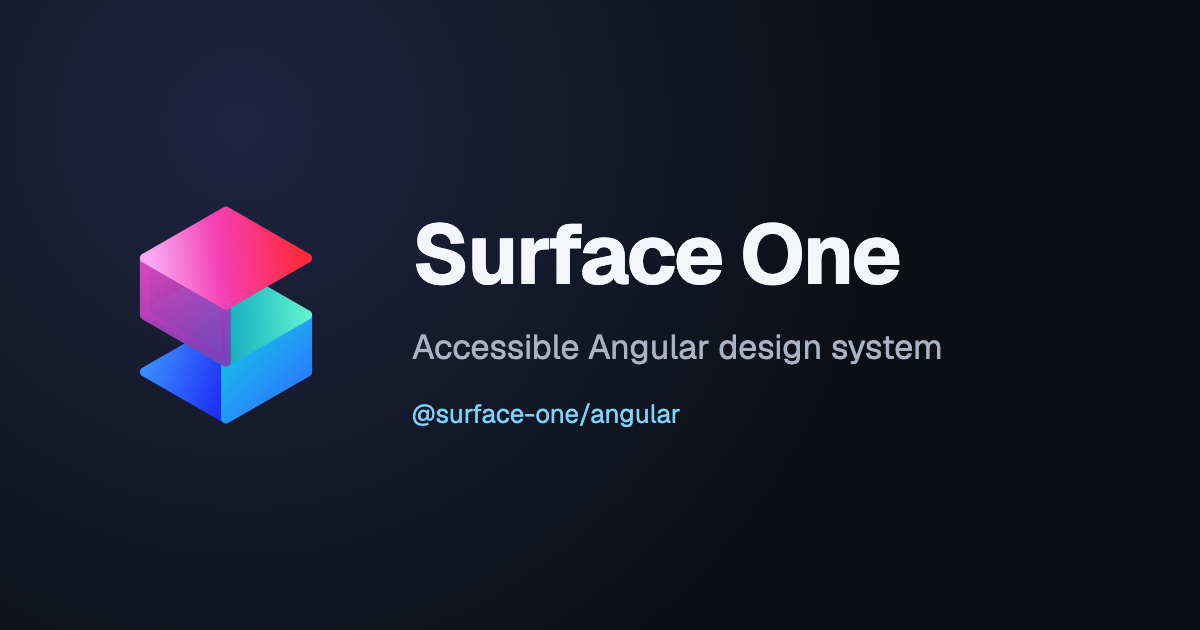
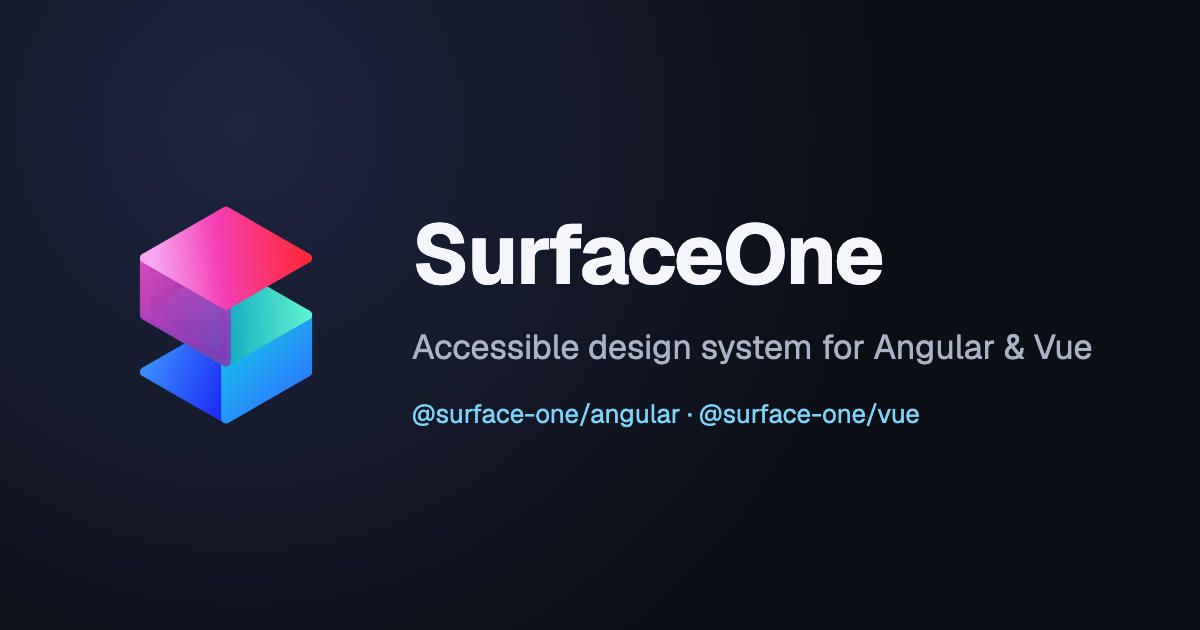
feat(docs): refresh seo copy and the og image for angular and vue
- meta description and tagline cover angular and vue / nuxt in all nine languages
- home json-ld lists the angular, vue and tokens packages
- the og image and web manifest describe the design system for angular and vue
- framework dots use each framework's brand colour; hero chips sit above the preview on mobile

Changed region(s): [[0.4933, 0.5127, 0.925, 0.6032], [0.5858, 0.3317, 0.7708, 0.4524], [0.5858, 0.6333, 0.7708, 0.6937]]

diff --git a/apps/docs/src/app/pages/home/home.page.html b/apps/docs/src/app/pages/home/home.page.html
@@ -91,6 +91,11 @@
       role="img"
       [attr.aria-label]="i18n.m().home.previewLabel"
     >
+      <div class="stage-chips" inert>
+        <span soneBadge variant="success" dot>Synced</span>
+        <span soneBadge variant="accent" dot>3 skins</span>
+        <span soneBadge variant="outline">WCAG 2.2 AA</span>
+      </div>
       <div soneCard class="stage-card stage-main" inert>
         <div soneCardHeader>
           <h2 soneCardTitle>This week</h2>
@@ -125,23 +130,17 @@
           <sone-level-meter [level]="0.6" [bars]="18" />
         </div>
       </div>
-
-      <div class="stage-chips" inert>
-        <span soneBadge variant="success" dot>Synced</span>
-        <span soneBadge variant="accent" dot>3 skins</span>
-        <span soneBadge variant="outline">WCAG 2.2 AA</span>
-      </div>
     </div>
   </div>
 
   <div class="works-with">
     <span class="works-label">{{ i18n.m().home.frameworks.worksWith }}</span>
     <ul>
-      <li><span soneSwatch tone="chart-1"></span>Angular</li>
-      <li><span soneSwatch tone="chart-2"></span>Vue</li>
-      <li><span soneSwatch tone="chart-3"></span>Nuxt</li>
+      <li><span soneSwatch tone="--fw-angular"></span>Angular</li>
+      <li><span soneSwatch tone="--fw-vue"></span>Vue</li>
+      <li><span soneSwatch tone="--fw-nuxt"></span>Nuxt</li>
       <li class="is-soon">
-        <span soneSwatch tone="chart-6"></span>React
+        <span soneSwatch tone="--fw-react"></span>React
         <span soneBadge variant="outline">{{
           i18n.m().home.frameworks.soon
         }}</span>

diff --git a/apps/docs/src/app/i18n/messages/ja.ts b/apps/docs/src/app/i18n/messages/ja.ts
@@ -3,9 +3,9 @@ import type { Messages } from "./en";
 export const ja: Messages = {
   meta: {
     siteName: "SurfaceOne",
-    tagline: "落ち着いたローカルファーストなアプリのためのデザインシステム",
+    tagline: "Angular と Vue のための、落ち着いたアクセシブルなコンポーネント",
     description:
-      "SurfaceOne はアクセシブルな Angular デザインシステムです。50 のコンポーネントファミリー、デザイントークン、ライトとダークに対応した 3 つのスキン、そして latin-ext を完全にカバーするフォントを備えています。",
+      "SurfaceOne は Angular と Vue / Nuxt のためのアクセシブルなデザインシステムです。70 以上のコンポーネントファミリー、フレームワークに依存しないデザイントークン、ライトとダークに対応した 3 つのスキン、そして latin-ext を完全にカバーするフォントを備えています。",
   },
   a11y: {
     skipToContent: "本文へスキップ",

diff --git a/apps/docs/src/app/pages/home/home.page.ts b/apps/docs/src/app/pages/home/home.page.ts
@@ -155,12 +155,26 @@ export default class HomePage {
         jsonLd: [
           {
             "@type": "SoftwareSourceCode",
-            name: "@surface-one/angular",
+            name: SITE.name,
             description: m.meta.description,
             codeRepository: SITE.repository,
-            programmingLanguage: "TypeScript",
+            programmingLanguage: ["TypeScript", "CSS"],
             runtimePlatform: ["Angular", "Vue", "Nuxt"],
+            keywords: [
+              "design system",
+              "component library",
+              "Angular",
+              "Vue",
+              "Nuxt",
+              "design tokens",
+              "accessibility",
+            ],
             version: SITE.version,
+            hasPart: [
+              "@surface-one/angular",
+              "@surface-one/vue",
+              "@surface-one/tokens",
+            ].map((name) => ({ "@type": "SoftwareSourceCode", name })),
           },
         ],
       });

diff --git a/apps/docs/src/app/i18n/messages/fr.ts b/apps/docs/src/app/i18n/messages/fr.ts
@@ -3,9 +3,9 @@ import type { Messages } from "./en";
 export const fr: Messages = {
   meta: {
     siteName: "SurfaceOne",
-    tagline: "Le design system des applications sereines et local-first",
+    tagline: "Des composants sobres et accessibles pour Angular et Vue",
     description:
-      "SurfaceOne est un design system Angular accessible : 50 familles de composants, des design tokens, trois habillages en clair et en sombre, et des polices couvrant entièrement le latin-ext.",
+      "SurfaceOne est un design system accessible pour Angular et Vue / Nuxt : plus de 70 familles de composants, des design tokens indépendants du framework, trois habillages en clair et en sombre, et des polices couvrant entièrement le latin-ext.",
   },
   a11y: {
     skipToContent: "Aller au contenu",

diff --git a/apps/docs/src/app/i18n/messages/es.ts b/apps/docs/src/app/i18n/messages/es.ts
@@ -3,9 +3,9 @@ import type { Messages } from "./en";
 export const es: Messages = {
   meta: {
     siteName: "SurfaceOne",
-    tagline: "El sistema de diseño para apps serenas y local-first",
+    tagline: "Componentes tranquilos y accesibles para Angular y Vue",
     description:
-      "SurfaceOne es un sistema de diseño accesible para Angular: 50 familias de componentes, tokens de diseño, tres skins en modo claro y oscuro, y fuentes con cobertura latin-ext completa.",
+      "SurfaceOne es un sistema de diseño accesible para Angular y Vue / Nuxt: más de 70 familias de componentes, tokens de diseño independientes del framework, tres skins en modo claro y oscuro, y fuentes con cobertura latin-ext completa.",
   },
   a11y: {
     skipToContent: "Saltar al contenido",

diff --git a/apps/docs/src/app/i18n/messages/pt.ts b/apps/docs/src/app/i18n/messages/pt.ts
@@ -3,9 +3,9 @@ import type { Messages } from "./en";
 export const pt: Messages = {
   meta: {
     siteName: "SurfaceOne",
-    tagline: "O design system para apps tranquilos e local-first",
+    tagline: "Componentes calmos e acessíveis para Angular e Vue",
     description:
-      "SurfaceOne é um design system acessível para Angular: 50 famílias de componentes, design tokens, três skins nos modos claro e escuro, e fontes com cobertura completa de latin-ext.",
+      "SurfaceOne é um design system acessível para Angular e Vue / Nuxt: mais de 70 famílias de componentes, design tokens independentes de framework, três skins nos modos claro e escuro, e fontes com cobertura completa de latin-ext.",
   },
   a11y: {
     skipToContent: "Pular para o conteúdo",

diff --git a/apps/docs/src/app/i18n/messages/pl.ts b/apps/docs/src/app/i18n/messages/pl.ts
@@ -3,9 +3,9 @@ import type { Messages } from "./en";
 export const pl: Messages = {
   meta: {
     siteName: "SurfaceOne",
-    tagline: "System projektowy dla spokojnych aplikacji local-first",
+    tagline: "Spokojne, dostępne komponenty dla Angulara i Vue",
     description:
-      "SurfaceOne to dostępny system projektowy dla Angulara: 50 rodzin komponentów, tokeny projektowe, trzy skórki w trybie jasnym i ciemnym oraz fonty z pełnym pokryciem latin-ext.",
+      "SurfaceOne to dostępny system projektowy dla Angulara oraz Vue / Nuxt: ponad 70 rodzin komponentów, tokeny projektowe niezależne od frameworka, trzy skórki w trybie jasnym i ciemnym oraz fonty z pełnym pokryciem latin-ext.",
   },
   a11y: {
     skipToContent: "Przejdź do treści",

diff --git a/apps/docs/src/app/i18n/messages/de.ts b/apps/docs/src/app/i18n/messages/de.ts
@@ -3,9 +3,9 @@ import type { Messages } from "./en";
 export const de: Messages = {
   meta: {
     siteName: "SurfaceOne",
-    tagline: "Das Designsystem für ruhige Local-first-Apps",
+    tagline: "Ruhige, barrierefreie Komponenten für Angular und Vue",
     description:
-      "SurfaceOne ist ein barrierefreies Angular-Designsystem: 50 Komponentenfamilien, Design-Tokens, drei Skins in Hell und Dunkel sowie Schriften mit vollständiger latin-ext-Abdeckung.",
+      "SurfaceOne ist ein barrierefreies Designsystem für Angular und Vue / Nuxt: über 70 Komponentenfamilien, framework-unabhängige Design-Tokens, drei Skins in Hell und Dunkel sowie Schriften mit vollständiger latin-ext-Abdeckung.",
   },
   a11y: {
     skipToContent: "Zum Inhalt springen",

diff --git a/apps/docs/src/app/i18n/messages/zh.ts b/apps/docs/src/app/i18n/messages/zh.ts
@@ -3,9 +3,9 @@ import type { Messages } from "./en";
 export const zh: Messages = {
   meta: {
     siteName: "SurfaceOne",
-    tagline: "为沉静、本地优先的应用打造的设计系统",
+    tagline: "适用于 Angular 和 Vue 的沉稳、无障碍组件",
     description:
-      "SurfaceOne 是一个无障碍的 Angular 设计系统：50 个组件系列、设计令牌、三套支持亮色与暗色的皮肤，以及完整覆盖 latin-ext 的字体。",
+      "SurfaceOne 是一个面向 Angular 与 Vue / Nuxt 的无障碍设计系统：70 多个组件系列、与框架无关的设计令牌、三套支持亮色与暗色的皮肤，以及完整覆盖 latin-ext 的字体。",
   },
   a11y: {
     skipToContent: "跳到主要内容",

diff --git a/apps/docs/src/app/i18n/messages/it.ts b/apps/docs/src/app/i18n/messages/it.ts
@@ -3,9 +3,9 @@ import type { Messages } from "./en";
 export const it: Messages = {
   meta: {
     siteName: "SurfaceOne",
-    tagline: "Il design system per app pacate e local-first",
+    tagline: "Componenti sobri e accessibili per Angular e Vue",
     description:
-      "SurfaceOne è un design system accessibile per Angular: 50 famiglie di componenti, design token, tre skin in modalità chiara e scura e font con copertura latin-ext completa.",
+      "SurfaceOne è un design system accessibile per Angular e Vue / Nuxt: oltre 70 famiglie di componenti, design token indipendenti dal framework, tre skin in modalità chiara e scura e font con copertura latin-ext completa.",
   },
   a11y: {
     skipToContent: "Vai al contenuto",

diff --git a/apps/docs/src/app/i18n/messages/en.ts b/apps/docs/src/app/i18n/messages/en.ts
@@ -19,9 +19,9 @@ const blocks = (b: GuideBlock[]): readonly GuideBlock[] => b;
 export const en = {
   meta: {
     siteName: "SurfaceOne",
-    tagline: "The design system for calm, local-first apps",
+    tagline: "Calm, accessible components for Angular and Vue",
     description:
-      "SurfaceOne is an accessible Angular design system: 50 component families, design tokens, three skins in light and dark, and fonts with full latin-ext coverage.",
+      "SurfaceOne is an accessible design system for Angular and Vue / Nuxt: 70+ component families, framework-agnostic design tokens, three skins in light and dark, and fonts with full latin-ext coverage.",
   },
   a11y: {
     skipToContent: "Skip to content",

diff --git a/apps/docs/src/app/pages/home/home.page.scss b/apps/docs/src/app/pages/home/home.page.scss
@@ -196,6 +196,11 @@
 }
 
 .works-with {
+  /* Each framework's own brand colour — the official marks' primary hue. */
+  --fw-angular: #dd0031;
+  --fw-vue: #42b883;
+  --fw-nuxt: #00dc82;
+  --fw-react: #61dafb;
   display: flex;
   flex-wrap: wrap;
   align-items: center;
